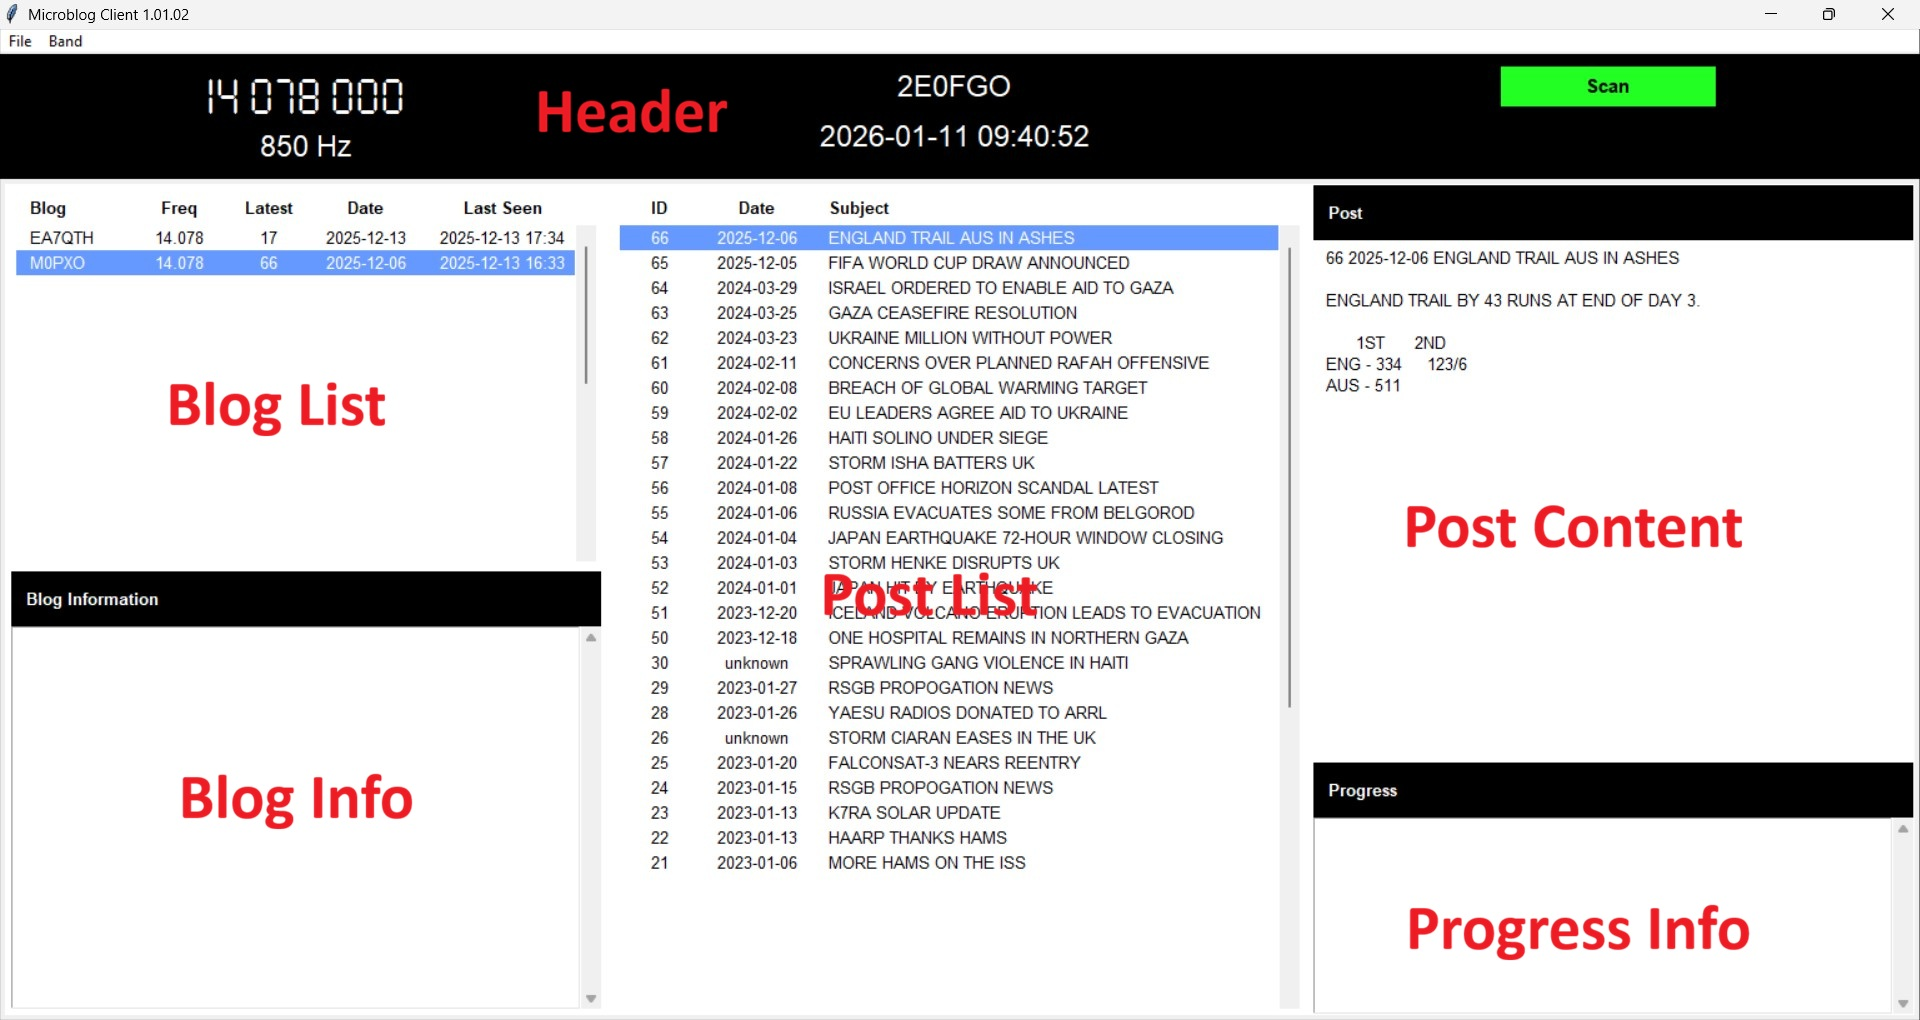
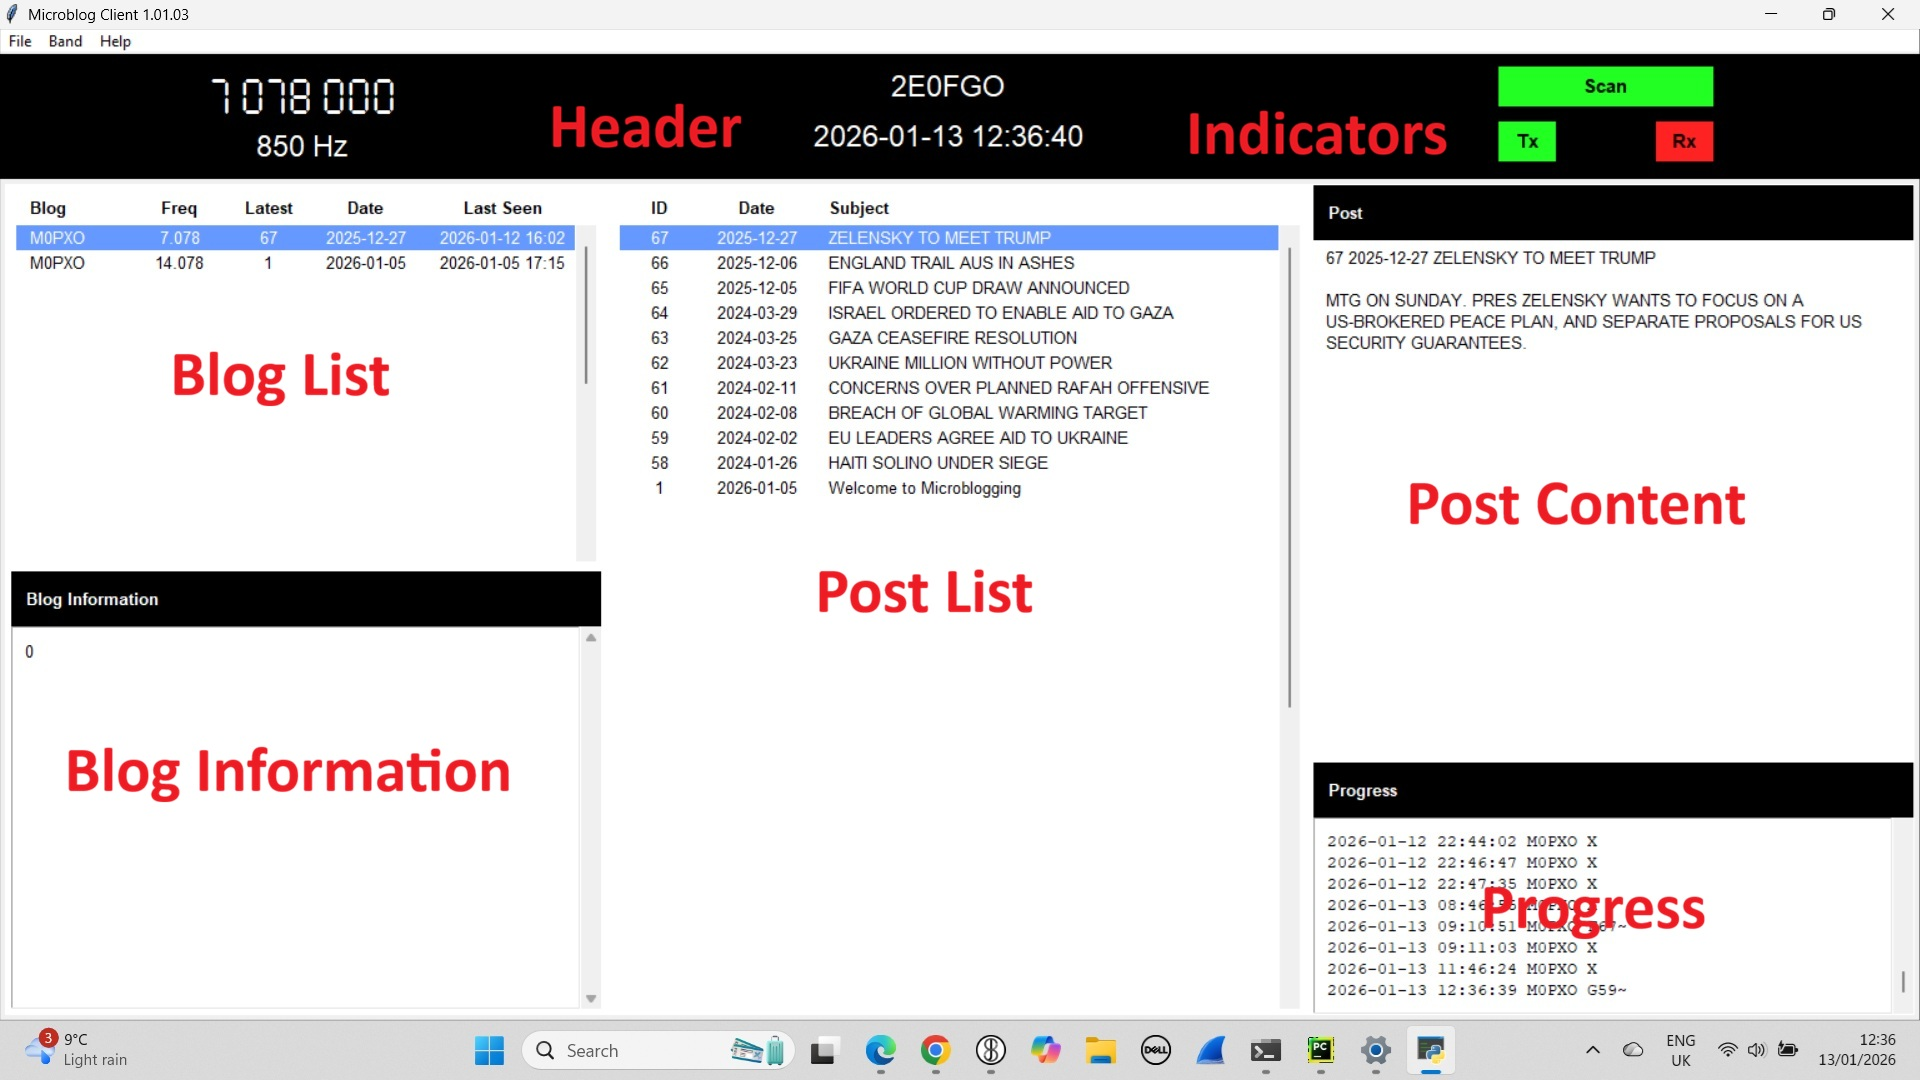
Updated the README and UserGuide
Phew - I think it's all now up to date.

diff --git a/docs/UserGuide.html b/docs/UserGuide.html
@@ -11,7 +11,8 @@
         <h2>Contents</h2>
         <ul>
             <li><a href="#intro">Introduction</a></li>
-            <li><a href="#post_file">Microblog Post File</a></li>
+            <li><a href="#offgrid">Off Grid Operation</a></li>
+            <li><a href="#postfile">Microblog Post File</a></li>
             <li><a href="#function">MbClient Functionality</a></li>
             <li><a href="#interface">Getting Started</a></li>
             <li><a href="#settings">Settings</a></li>
@@ -33,7 +34,12 @@
         <p>A microblog server is hosted on an amateur radio operator's computer and uses the JS8Call application
             to provide the JS8 transport mechanism.  A microblog client sends requests to the mbserver which
             responds with the requested information.</p>
-        <h2 id="post_file">Microblog Post File</h2>
+
+        <h2 id="offgrid">Off Grid Operation</h2>
+        <p>Although you will need Internet access to install MbClient, once that's done the application can operate
+            completely off grid.  The User Guide is part of the installation package and so is always available.</p>
+
+        <h2 id="postfile">Microblog Post File</h2>
         <p>A microblog post is stored as a simple text file in the server computer.  The content of the text file
             will look something like this:</p>
         <p style="background-color: black; color: white; padding: 8px;">
@@ -120,7 +126,10 @@
             the layout of the display. The window has five areas:</p>
         <ul>
             <li><b>Header</b> - displays the rig frequency setting, the JS8Call offset, your call sign,
-                the GMT (UTC) date and time, and a Scan button</li>
+                the GMT (UTC) date and time, a Scan button and transmit/receive indicators</li>
+            <li><b>Tx</b> - changes to red when JS8Call is transmitting an MbClient request to
+                the server</li>
+            <li><b>Rx</b> - changes to red when JS8Call has received a data frame</li>
             <li><b>Blog List</b> - lists the blogs that have been seen and should be available to you
                 - the currently selected blog is highlighted in blue</li>
             <li><b>Blog Info</b> - shows information about the selected blog if it's available in
@@ -152,7 +161,11 @@
         </ul>
         <p>* - The wording of the prompt is, "We don't have the content for this post in the cache.
             Click here to get it from the server."</p>
-
+        <p>The Tx and Rx indicators show JS8Call and radio activity.  They give the operator a level
+            of feedback so that we can see something is happening without having to switch to the
+            JS8Call window.  The Tx indicator is switched on when JS8Call is transmitting (activated
+            Push-to-Talk).  The Rx indicator flashes on for 0.5 seconds when JS8Call receives any
+            dataframe, whether it is destined for our station or not.</p>
 
         <h2 id="settings">Settings</h2>
         <p>As an operator, we can change several parameters through the <i>File -> Settings</i> menu.</p>
@@ -246,16 +259,32 @@
         <ol>
             <li>A transceiver that can tune to JS8Call frequencies, or a radio that can tune to these frequencies
                 if you plan to operate in listen only mode.</li>
-            <li>A Windows 10, Windows 11, Apple Mac or Linux computer</li>
-            <li>JS8Call 2.2 or later</li>
-            <li>Python 3 - see https://www.python.org/downloads/</li>
-            <li>Sqlite 3 - see https://sqlite.org/download.html</li>
+            <li>A Windows 10, Windows 11, macOS or Linux computer</li>
+            <li>JS8Call 2.2 or later - see
+                <a href="https://js8call.com/" target="_blank">https://js8call.com/</a></li>
+            <li>Python 3</li>
         </ol>
+        <p>Python 3 is part of the macOS installation (Big Sur and later).  Python 3 is also included in most modern
+            Linux distributions by default.  You can confirm this by opening a terminal and entering
+            <code>python -V</code>, note the option is a capital V.</p>
+        <p><img src="images/microsoft_store_python.jpg" width="640" /></p>
+        <p>Python isn't preinstalled on Windows.  Open a Command Prompt and use <code>python -V</code> to check
+            if it has been installed on your PC.  If it's not installed, install it from the Microsoft Store.
+            On Windows 11, simply enter the command <code>python</code> at a Command Prompt.  If Python isn't installed
+            a window will open at the right place in the Microsoft Store.</p>
+        <p>If all else fails, see see
+            <a href="https://www.python.org/downloads/" target="_blank">https://www.python.org/downloads/</a></p>
+        <p>MbClient only uses modules included in the Python Standard Library, and so we don't need to install
+            additional modules.</p>
+        <p>If you are a more advanced Python user and typically run an application in
+            a dedicated virtual environment, you can do this for MbClient, although it would only be necessary
+            if, say, your global environment is Python 2.</p>
+
         <h3>Download</h3>
         <p>You can download the MbClient from a GitHub repository:</p>
         <ul>
             <li>In your web browser, go to https://github.com/PaulOfford/mbclient</li>
-            <li>Click on the greed Code button and choose Download Zip</li>
+            <li>Click on the green Code button and choose Download Zip</li>
             <li>Extract the zip file to a folder of your choosing</li>
             <li>Check the database path specified in db_root.py and change if appropriate</li>
         </ul>
@@ -268,7 +297,7 @@
             in db_root.py.
             This location is appropriate for Windows and is aligned with the current standard way of
             storing data for personal applications.  I recommend that you don't change it.  The
-            path will need to be changed for MacOS and Linux as the %AppData% environment variable is
+            path will need to be changed for macOS and Linux as the %AppData% environment variable is
             invalid for those operating systems.</p>
         <p>If you want MbClient to convert an earlier version database, once you have set the database
             location (db_path) in db_root.py, you should move the old database file to that location.

diff --git a/README.md b/README.md
@@ -1,18 +1,47 @@
-# mbclient
-Microblog client
+# MbClient
 
-## Installation from the zip file
+## Introduction
 
-* Unpack the zip file into a location of your choice
-* Edit the db_root.py file to set the location you wish the database to be placed - the directory must already exist
-* Execute the database setup script with: python db_setup.py
-* Start the client with: python mb_client.py
+We must start by defining the term "microblogging".  Microblogging is the creation and sharing of small pieces of information (known as posts) using computers.  On this occasion, the computers involved communicate over the air waves using an Amateur Radio data mode called JS8.
 
-## Database Structure
+In this microblogging world, one computer acts as a blog server that sends the posts to one or more clients.  To do this, the server runs an application called MbServer. There can be multiple blog servers providing different blogs.
 
-### system table
+MbClient provides a simple way to requests posts an MbServer.  Important features are:
 
-* sys_update - Timestamp of the last system-wide update
-* news_update - Timestamp of the last news update
-* post_list_update - Timestamp of the last post list update
-* blog_update - Timestamp of the last blog update
+* Point and click access to blogs and posts for easy use
+* Caching of posts so that you can get once but read at any time
+* Scanning for blog servers, so you can easily discover those operating within radio reach
+
+## Off Grid
+Although you will need Internet access to install MbClient, once that's done the application can operate completely off grid.  The User Guide is part of the installation package and so is always available.
+
+## Prerequisites
+MbClient requires very little to run.  It needs:
+
+* A computer with one of the following**:
+  * Windows 10 or later
+  * Linux
+  * macOS
+* JS8Call version 2.2 or later
+* Python 3.6 or later
+
+** The build and test environment is Windows 11 and the default settings are set for this environment.  It hasn't been tested on Linux or macOS but it should work.
+
+MbClient only uses modules included in the Python Standard Library, and so we don't need to install additional modules.
+
+## Install and Run
+The full installation instructions are in the User Guide, which is part of the MbClient zip package:
+
+* Download the MbClient zip file
+* Extract it to a location of your choice
+* Using File Explorer in Windows, or the equivalent in other operating systems, navigate to the folder where you extracted the zip to and then to the `docs` folder
+* Double-click on UserGuide.html
+* Go to the Installing and Running MbClient in the guide
+
+## User Guide
+Once MbClient is installed, you can view the User Guide at any time like this:
+
+* Start MbClient
+* Click on Help in the top menu
+* Choose User Guide
+
